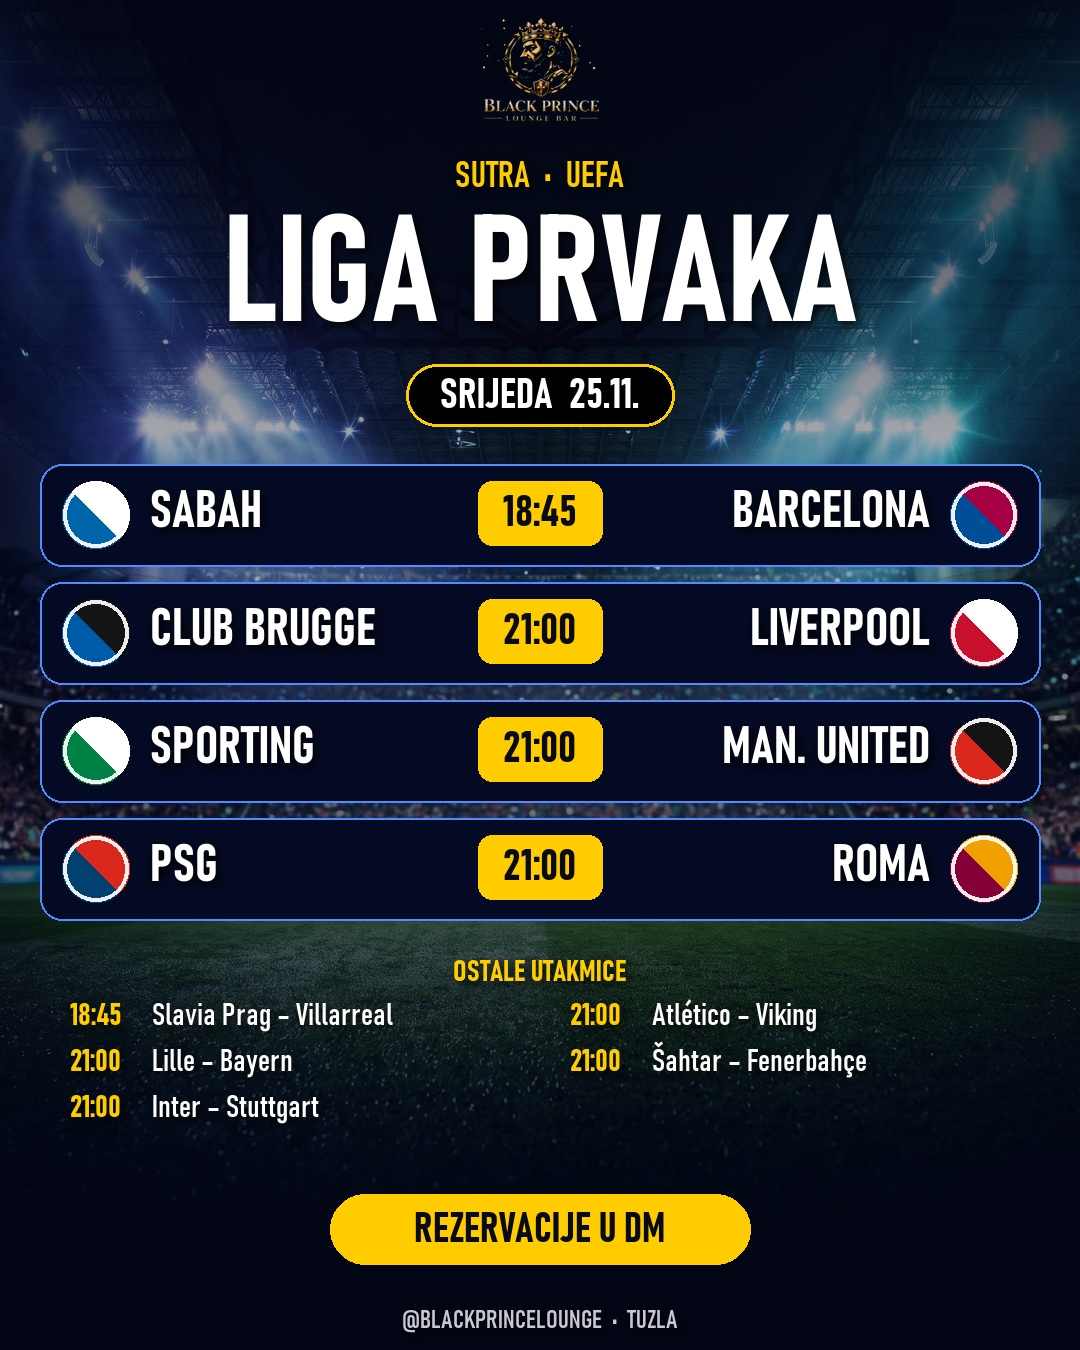
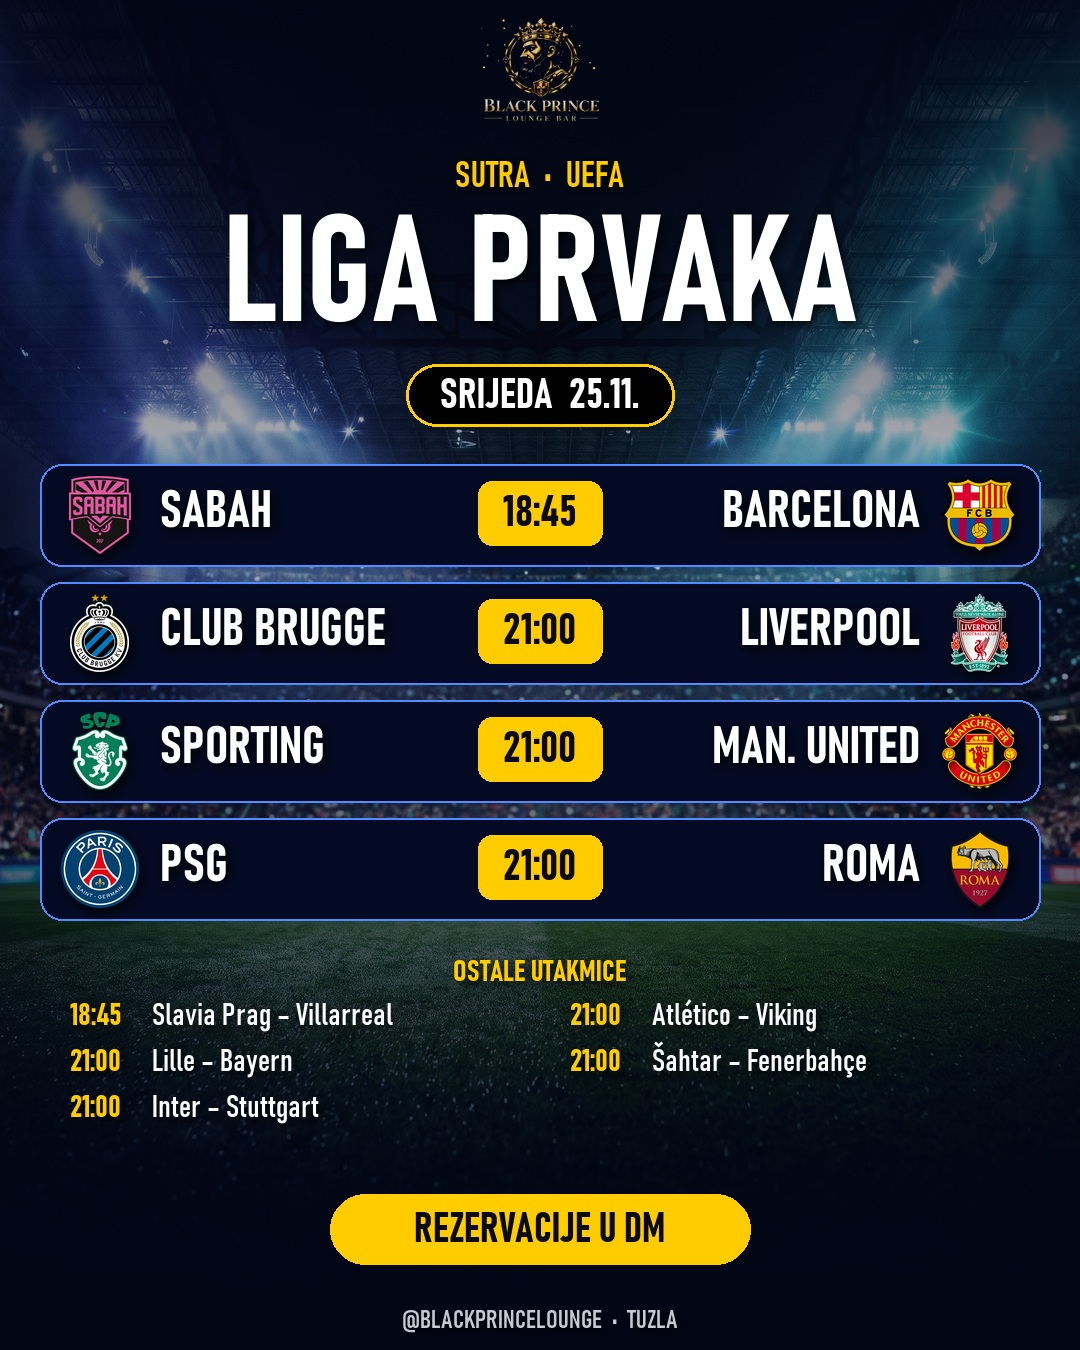
Black Prince: najava LP 24.11. s grbovima klubova, pravilo o grbovima u profilu

diff --git a/biznisi/black-prince/profil.md b/biznisi/black-prince/profil.md
@@ -41,4 +41,5 @@
     Ako je utakmica dan prije nekog dana koji nije pon/sri/pet, objava ide tog dana, mimo rasporeda.
   - Više utakmica u nizu: svaka dobija svoj post dan prije (npr. utakmice 3. i 4. → post 2. za 3., post 3. za 4.).
   - Datum, vrijeme i protivnika uvijek provjeriti (web), ne izmišljati.
+  - Najave klupskih utakmica (npr. Liga prvaka) UVIJEK sa grbovima timova (pored imena kluba); reprezentacije sa zastavama. Stil kao njihovi plakati: stadion, krupna imena, vrijeme, "Rezervacije u DM", bez fotografija ljudi (uputa od 23.11.2026).
   - I dalje ide na odobrenje korisniku prije objave.
